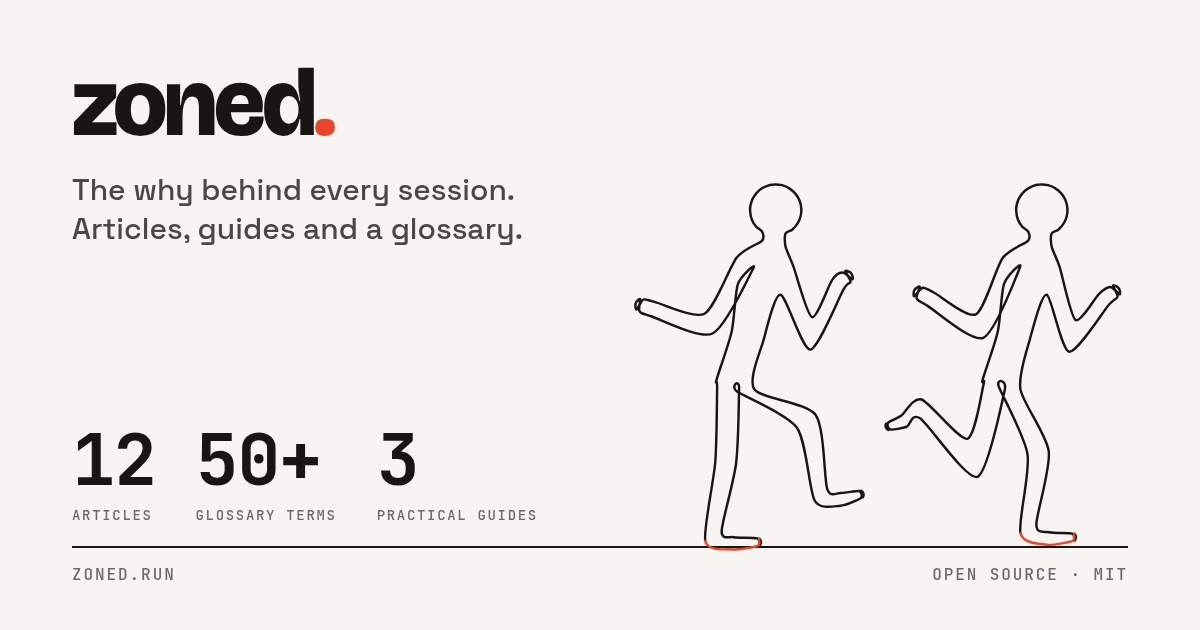
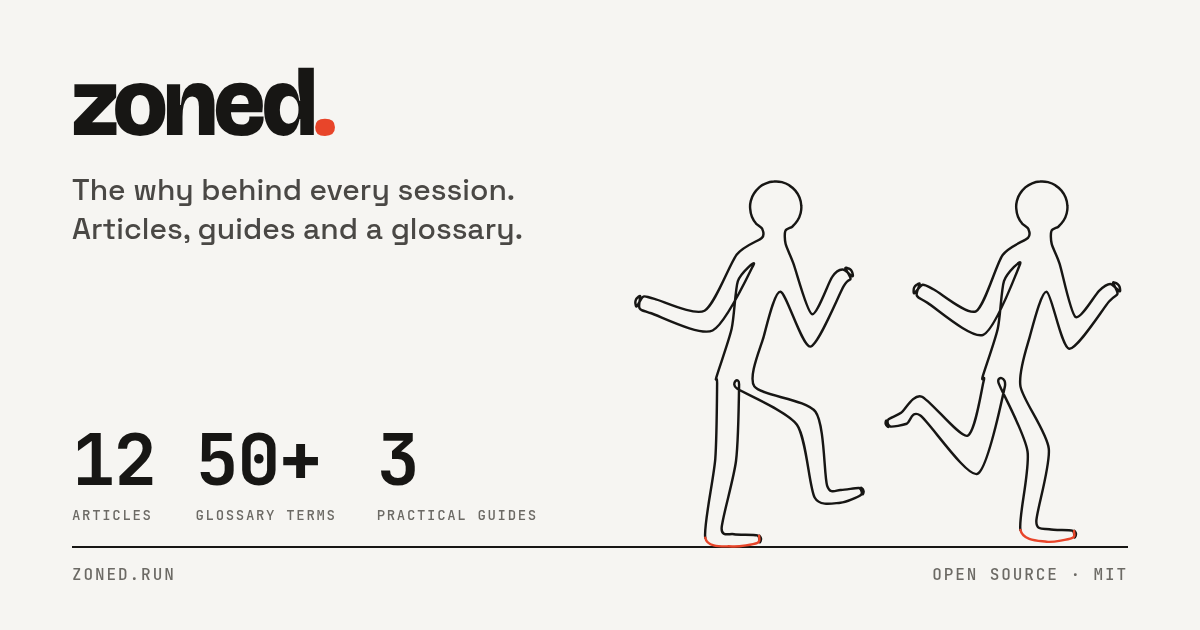
refonte(doodles): le cadre s'arrête au trait rendu, et un test tient les constantes
Troisième et dernière coupe. efcea06 posait le bas du cadre sur le nombre le
plus bas du chemin, points de contrôle compris : sur sept figures un point de
contrôle descend 3 à 5 unités sous la courbe, et la semelle flottait
au-dessus du filet (le gainage à 4 px, les portes du menu à 3 px). rig.mjs
échantillonne désormais chaque cubique (strokeBottom) et pose le bas 1,2
sous le point le plus bas du trait rendu ; scripts/doodles/recut.mjs applique
la même règle aux dessins sans générateur. Vingt et un cadres recoupés, trait
identique au byte près, recoupe idempotente, cinq générateurs d'accord.

Tout ce qui recopiait un cadre suit : les sept rapports d'aspect du ruban du
plan, la hauteur de la scène des six zones, le duo inliné dans la coquille
(qui n'a plus besoin d'overflow visible), et les dix PNG de la vitrine
régénérés. Un test bun lit les SVG et vérifie ces quatre endroits : la
prochaine recoupe ne pourra plus passer inaperçue.

diff --git a/index.html b/index.html
@@ -221,8 +221,7 @@
         width: 300px;
         max-width: 100%;
         height: auto;
-        aspect-ratio: 409.6 / 303.6; /* the viewBox — an svg with no size collapses */
-        overflow: visible; /* the front sole bites 2.6 units below the box: let it bite the rule */
+        aspect-ratio: 409.6 / 306.4; /* the viewBox — an svg with no size collapses */
         margin-bottom: -1.5px;
         color: var(--fg);
       }
@@ -250,7 +249,7 @@
       <!-- src/assets/doodles/runners-duo.svg, inlined byte for byte (the
            app's bundle is not here yet). Regenerate by pasting the file. -->
       <div class="shell-scene" role="status" aria-label="Chargement">
-        <svg class="shell-duo" aria-hidden="true" viewBox="24.0 69.9 409.6 303.6" xmlns="http://www.w3.org/2000/svg" fill="none" stroke="currentColor" stroke-width="2" stroke-linecap="round" stroke-linejoin="round">
+        <svg class="shell-duo" aria-hidden="true" viewBox="24.0 69.9 409.6 306.4" xmlns="http://www.w3.org/2000/svg" fill="none" stroke="currentColor" stroke-width="2" stroke-linecap="round" stroke-linejoin="round">
           <path d="M 87.3 367.9C85.6 358.9 94.3 318.9 95.5 303.2C96.7 287.4 96.9 250.1 97.0 241.7C97.1 233.3 95.0 241.7 96.5 236.1C98.0 230.5 106.7 206.5 108.9 196.7C111.1 186.9 111.8 164.2 114.0 157.6C116.3 151.1 129.5 139.1 126.9 144.1C124.3 149.2 103.9 193.1 93.3 198.1C82.7 203.1 49.8 186.0 42.3 183.8C34.8 181.5 34.5 181.5 33.4 179.7C32.4 178.0 34.2 171.2 34.0 170.1C33.8 169.0 32.2 170.8 31.7 171.3C31.2 171.7 30.5 172.8 30.3 173.4C30.1 174.0 30.0 175.4 30.1 176.0C30.2 176.6 30.4 179.0 31.3 178.3C32.1 177.6 34.8 171.0 36.6 170.3C38.4 169.5 39.4 170.8 45.7 172.2C52.0 173.7 78.3 186.4 86.7 181.9C95.1 177.4 107.3 143.3 113.1 135.9C119.0 128.4 131.1 124.8 133.7 122.2C136.3 119.6 134.5 116.3 133.9 114.8C133.3 113.3 130.0 111.7 128.9 110.5C127.9 109.3 126.1 106.4 125.5 104.9C124.9 103.4 124.2 100.1 124.1 98.5C123.9 96.8 124.2 93.5 124.6 91.9C125.0 90.3 126.3 87.2 127.2 85.9C128.1 84.5 130.3 82.0 131.5 80.9C132.7 79.9 135.6 78.1 137.1 77.5C138.6 76.9 141.9 76.2 143.5 76.1C145.2 75.9 148.5 76.2 150.1 76.6C151.7 77.0 154.8 78.3 156.1 79.2C157.5 80.1 160.0 82.3 161.1 83.5C162.1 84.7 163.9 87.6 164.5 89.1C165.1 90.6 165.8 93.9 165.9 95.5C166.1 97.2 165.8 100.5 165.4 102.1C165.0 103.7 163.7 106.8 162.8 108.1C161.9 109.5 159.7 112.0 158.5 113.1C157.3 114.1 153.5 114.7 152.9 116.5C152.2 118.2 152.3 123.8 153.1 127.1C153.9 130.4 156.7 135.7 159.4 142.9C162.1 150.1 170.7 183.3 174.7 184.7C178.7 186.1 188.1 158.7 191.3 154.2C194.4 149.6 197.7 148.3 199.7 148.2C201.8 148.1 206.7 153.3 207.7 153.7C208.7 154.0 208.0 151.7 207.9 151.1C207.8 150.5 207.2 149.2 206.8 148.7C206.4 148.3 205.3 147.5 204.7 147.3C204.1 147.1 201.9 146.0 202.1 147.1C202.3 148.1 206.4 154.0 206.3 155.8C206.1 157.6 204.8 154.9 200.7 161.8C196.6 168.8 179.8 210.7 173.3 211.3C166.8 211.8 153.7 167.4 149.0 166.4C144.2 165.4 137.8 193.6 135.1 203.3C132.4 213.0 122.2 236.2 127.5 243.9C132.8 251.6 170.2 254.5 177.6 264.7C185.1 274.9 184.6 317.1 187.1 325.1C189.7 333.1 194.7 328.6 198.0 328.8C201.3 329.1 211.0 326.7 213.3 327.1C215.5 327.5 215.6 331.7 216.1 332.2C216.5 332.6 216.8 331.2 216.9 330.8C217.0 330.5 217.0 329.6 216.9 329.3C216.8 328.9 216.4 328.2 216.2 327.9C215.9 327.6 215.0 326.5 214.8 327.1C214.6 327.7 216.8 331.4 214.7 332.9C212.6 334.4 202.7 338.9 198.0 339.2C193.3 339.4 181.3 342.9 176.9 334.9C172.4 326.9 170.3 286.5 162.4 275.3C154.4 264.1 119.2 249.8 113.3 245.7C107.4 241.5 115.1 234.9 115.0 242.3C114.9 249.7 114.3 290.1 112.5 304.8C110.7 319.6 100.9 352.6 100.7 360.1C100.5 367.6 107.1 364.2 110.8 365.0C114.4 365.7 127.2 365.2 129.9 366.0C132.5 366.8 131.3 371.0 131.6 371.5C132.0 372.1 132.5 370.7 132.7 370.4C132.8 370.0 133.0 369.2 133.0 368.9C133.0 368.5 132.7 367.7 132.5 367.4C132.3 367.1 131.7 365.8 131.4 366.3"/>
           <path d="M 345.5 361.5C343.5 352.2 353.5 312.2 351.3 297.2C349.1 282.2 330.0 248.0 327.7 241.4C325.3 234.9 334.8 235.4 332.6 244.7C330.4 253.9 318.7 312.7 310.1 315.6C301.4 318.5 270.7 272.9 263.5 267.8C256.2 262.6 255.4 273.4 252.3 274.5C249.2 275.6 241.0 277.2 238.9 276.8C236.9 276.5 236.2 272.4 235.8 272.0C235.3 271.6 235.1 273.0 235.1 273.4C235.0 273.8 235.0 274.6 235.2 274.9C235.3 275.3 235.7 276.0 236.0 276.2C236.3 276.5 237.3 277.6 237.4 276.9C237.5 276.3 235.8 272.6 237.1 271.2C238.3 269.7 244.3 267.9 247.7 265.5C251.1 263.1 257.8 249.9 264.5 252.2C271.3 254.6 295.6 286.0 301.9 284.4C308.3 282.8 313.8 245.4 315.4 239.3C317.0 233.3 313.0 241.4 314.5 236.1C315.9 230.8 324.7 206.5 326.9 196.7C329.1 186.9 329.8 164.3 332.0 157.6C334.3 151.0 347.3 138.1 345.2 143.6C343.0 149.1 324.5 197.7 315.0 201.6C305.5 205.6 275.9 179.3 269.1 175.3C262.3 171.2 261.3 171.3 260.6 169.4C259.8 167.5 262.9 161.1 262.9 160.0C262.9 158.9 261.0 160.4 260.4 160.7C259.9 161.0 258.9 162.0 258.6 162.6C258.3 163.1 258.0 164.5 258.0 165.1C258.0 165.7 257.8 168.1 258.7 167.6C259.6 167.0 263.4 161.0 265.4 160.6C267.5 160.3 269.5 162.0 274.9 164.7C280.3 167.5 302.0 185.9 309.0 182.4C316.0 178.8 325.5 143.9 330.8 136.4C336.2 128.9 349.0 124.9 351.7 122.2C354.3 119.5 352.5 116.3 351.9 114.8C351.3 113.3 348.0 111.7 346.9 110.5C345.9 109.3 344.1 106.4 343.5 104.9C342.9 103.4 342.2 100.1 342.1 98.5C341.9 96.8 342.2 93.5 342.6 91.9C343.0 90.3 344.3 87.2 345.2 85.9C346.1 84.5 348.3 82.0 349.5 80.9C350.7 79.9 353.6 78.1 355.1 77.5C356.6 76.9 359.9 76.2 361.5 76.1C363.2 75.9 366.5 76.2 368.1 76.6C369.7 77.0 372.8 78.3 374.1 79.2C375.5 80.1 378.0 82.3 379.1 83.5C380.1 84.7 381.9 87.6 382.5 89.1C383.1 90.6 383.8 93.9 383.9 95.5C384.1 97.2 383.8 100.5 383.4 102.1C383.0 103.7 381.7 106.8 380.8 108.1C379.9 109.5 377.7 112.0 376.5 113.1C375.3 114.1 371.5 114.7 370.9 116.5C370.2 118.2 370.2 123.7 371.1 127.1C371.9 130.4 375.1 136.0 377.6 143.5C380.0 151.0 386.6 184.2 390.6 187.0C394.6 189.7 406.3 169.0 409.9 165.6C413.4 162.2 416.9 160.0 419.0 160.0C421.1 160.0 425.6 165.5 426.6 166.0C427.6 166.4 427.0 164.0 427.0 163.4C426.9 162.8 426.4 161.5 426.0 161.0C425.6 160.5 424.5 159.6 424.0 159.4C423.4 159.2 421.3 158.0 421.4 159.0C421.5 160.1 425.4 166.1 425.0 168.0C424.6 169.9 423.1 168.8 418.1 174.4C413.2 180.0 391.8 214.1 385.4 213.0C379.0 212.0 371.0 167.6 367.0 166.4C362.9 165.1 355.8 193.6 353.1 203.3C350.4 213.0 343.6 232.4 345.5 243.9C347.5 255.3 367.1 281.0 368.7 294.8C370.3 308.7 358.5 346.3 358.5 354.5C358.5 362.8 365.4 360.0 369.1 360.9C372.7 361.9 385.3 361.2 387.9 362.0C390.4 362.8 389.3 367.0 389.6 367.5C390.0 368.1 390.5 366.7 390.7 366.4C390.8 366.0 391.0 365.2 391.0 364.9C391.0 364.5 390.7 363.7 390.5 363.4C390.3 363.1 389.7 361.8 389.4 362.3"/>
           <path stroke="var(--accent)" d="M 131.4 366.3C131.1 366.9 132.9 370.9 130.1 372.0C127.4 373.1 114.6 375.6 109.2 375.0C103.9 374.5 89.0 376.9 87.3 367.9"/>

diff --git a/src/assets/doodles/frames.test.ts b/src/assets/doodles/frames.test.ts
@@ -1,0 +1,51 @@
+/**
+ * Les cadres des dessins sont recopiés en dur à quatre endroits du code. Ce
+ * test dit la vérité sur chacun : si un SVG est recoupé (scripts/doodles/
+ * recut.mjs), la constante doit suivre — c'est arrivé trois fois le 6 sept.
+ */
+import { describe, expect, test } from "bun:test";
+import { readFileSync } from "node:fs";
+import { join } from "node:path";
+
+const ROOT = join(import.meta.dir, "../../..");
+const viewBox = (name: string) => {
+  const s = readFileSync(join(ROOT, "src/assets/doodles", `${name}.svg`), "utf8");
+  return s.match(/viewBox="([^"]+)"/)![1].split(" ").map(Number) as [number, number, number, number];
+};
+const read = (p: string) => readFileSync(join(ROOT, p), "utf8");
+
+describe("les cadres recopiés suivent les fichiers SVG", () => {
+  test("PlanViewPage : les sept rapports d'aspect de POSES", () => {
+    const src = read("src/pages/PlanViewPage.tsx");
+    const imports = Object.fromEntries([...src.matchAll(/import (\w+) from "@\/assets\/doodles\/([\w-]+)\.svg\?react"/g)].map((m) => [m[1], m[2]]));
+    const poses = [...src.matchAll(/(\w+): \{ Art: (\w+), foot: [0-9.]+, aspect: ([0-9.]+)/g)];
+    expect(poses.length).toBe(7);
+    for (const [, key, art, aspect] of poses) {
+      const [, , w, h] = viewBox(imports[art]);
+      expect(Math.abs(Number(aspect) - w / h), `${key} (${imports[art]})`).toBeLessThan(5e-4);
+    }
+  });
+
+  test("ZoneFigures : les six largeurs de FIGURES", () => {
+    const src = read("src/components/domain/ZoneFigures.tsx");
+    const widths = [...src.matchAll(/\[Zone(\d), ([0-9.]+)\]/g)];
+    expect(widths.length).toBe(6);
+    for (const [, n, w] of widths) expect(Number(w)).toBe(viewBox(`zone-${n}`)[2]);
+  });
+
+  test("zone-figures.css : la scène a la hauteur de la plus haute figure", () => {
+    const css = read("src/styles/components/zone-figures.css");
+    const h = Number(css.match(/block-size: calc\(([0-9.]+) \* var\(--zfig-scale\) \* 1px\)/)![1]);
+    const tallest = Math.max(...[1, 2, 3, 4, 5, 6].map((n) => viewBox(`zone-${n}`)[3]));
+    expect(h).toBe(tallest);
+  });
+
+  test("index.html : le duo inliné est le fichier, viewBox comprise", () => {
+    const html = read("index.html");
+    const [x, y, w, h] = viewBox("runners-duo");
+    expect(html).toContain(`viewBox="${x.toFixed(1)} ${y.toFixed(1)} ${w.toFixed(1)} ${h.toFixed(1)}"`);
+    expect(html).toContain(`aspect-ratio: ${w.toFixed(1)} / ${h.toFixed(1)};`);
+    const ds = [...read("src/assets/doodles/runners-duo.svg").matchAll(/ d="([^"]+)"/g)].map((m) => m[1]);
+    for (const d of ds) expect(html).toContain(d);
+  });
+});

diff --git a/src/pages/PlanViewPage.tsx b/src/pages/PlanViewPage.tsx
@@ -100,15 +100,15 @@ import WalkingAway from "@/assets/doodles/walking-away.svg?react";
    plan-panels.css (zone-1 there): the swatch says load, the pose says pace. */
 type Pose = { Art: typeof Zone2; foot: number; aspect: number; flip?: boolean };
 const POSES: Record<TrainingPhase | "before" | "after", Pose> = {
-  base: { Art: Zone2, foot: 0.373, aspect: 0.5704 },
-  build: { Art: Zone3, foot: 0.312, aspect: 0.6133 },
-  peak: { Art: Zone5, foot: 0.161, aspect: 0.6474 },
-  taper: { Art: Zone4, foot: 0.201, aspect: 0.6075 },
-  recovery: { Art: Stretching, foot: 0.37, aspect: 0.3856 },
+  base: { Art: Zone2, foot: 0.373, aspect: 0.5605 },
+  build: { Art: Zone3, foot: 0.312, aspect: 0.6025 },
+  peak: { Art: Zone5, foot: 0.161, aspect: 0.6353 },
+  taper: { Art: Zone4, foot: 0.201, aspect: 0.5965 },
+  recovery: { Art: Stretching, foot: 0.37, aspect: 0.3791 },
   // Standing faces left as drawn; flipped, it looks down the ribbon it is
   // about to start. Walking-away already walks right, off the end.
-  before: { Art: Standing, foot: 0.254, aspect: 0.3803, flip: true },
-  after: { Art: WalkingAway, foot: 0.825, aspect: 0.3796 },
+  before: { Art: Standing, foot: 0.254, aspect: 0.3737, flip: true },
+  after: { Art: WalkingAway, foot: 0.825, aspect: 0.3781 },
 };
 
 

diff --git a/src/styles/components/zone-figures.css b/src/styles/components/zone-figures.css
@@ -36,14 +36,14 @@
 }
 
 /* La scène : la figure au centre, posée sur le bord bas, qui est la règle.
-   Sa hauteur est celle de la plus haute figure (Z1, 310.3 u de viewBox depuis efcea06) et
+   Sa hauteur est celle de la plus haute figure (Z1, 310.2 u de viewBox) et
    non celle de sa propre figure : c'est ce qui met les six bords bas sur la
    même ligne quelles que soient la posture et la hauteur des graduations. */
 .zn-zfig__stage {
   display: flex;
   align-items: flex-end;
   justify-content: center;
-  block-size: calc(310.3 * var(--zfig-scale) * 1px);
+  block-size: calc(310.2 * var(--zfig-scale) * 1px);
   border-block-end: var(--border-rule);
   color: color-mix(in srgb, var(--ink-1) var(--zfig-floor), var(--zfig-ink));
 }

diff --git a/scripts/og-wordmark-template.html b/scripts/og-wordmark-template.html
@@ -135,7 +135,6 @@
       display: block;
       width: var(--duo-w);
       height: auto;
-      overflow: visible; /* the front sole bites below the box; let it bite the rule */
     }
 
     .footer {
